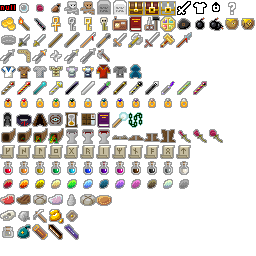
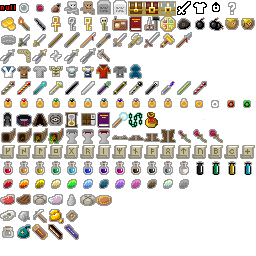
DSM-0080 updates to support new items

Changed region(s): [[0.75, 0.5625, 1.0, 0.6875], [0.75, 0.375, 1.0, 0.4375], [0.5625, 0.4375, 0.625, 0.5]]

diff --git a/src/main/java/com/shatteredpixel/pixeldungeonunleashed/sprites/ItemSpriteSheet.java b/src/main/java/com/shatteredpixel/pixeldungeonunleashed/sprites/ItemSpriteSheet.java
@@ -142,6 +142,10 @@ public class ItemSpriteSheet {
 	public static final int RING_QUARTZ		= ROW7+9;
 	public static final int RING_AGATE		= ROW7+10;
 	public static final int RING_DIAMOND	= ROW7+11;
+	public static final int RING_GOLD       = ROW7+12;
+	public static final int RING_CRYSTAL    = ROW7+13;
+	public static final int RING_WOOD       = ROW7+14;
+	public static final int RING_IVY        = ROW7+15;
 
 	//Row Eight: Artifacts with Static Images
 	public static final int ARTIFACT_CLOAK      = ROW8+0;
@@ -153,6 +157,7 @@ public class ItemSpriteSheet {
 	public static final int ARTIFACT_SPELLBOOK  = ROW8+6;
 	public static final int ARTIFACT_BEACON     = ROW8+7;
 	public static final int ARTIFACT_CHAINS     = ROW8+8;
+	public static final int ARTIFACT_DEVOUR     = ROW8+9;
 
 	//Row Nine: Artifacts with Dynamic Images
 	public static final int ARTIFACT_HORN1      = ROW9+0;
@@ -183,6 +188,10 @@ public class ItemSpriteSheet {
 	public static final int SCROLL_BERKANAN	= ROW10+9;
 	public static final int SCROLL_ODAL		= ROW10+10;
 	public static final int SCROLL_TIWAZ	= ROW10+11;
+	public static final int SCROLL_URR      = ROW10+12;
+	public static final int SCROLL_BEORC    = ROW10+13;
+	public static final int SCROLL_PEORO    = ROW10+14;
+	public static final int SCROLL_JEAR     = ROW10+15;
 
 	//Row Eleven: Potions
 	public static final int POTION_CRIMSON		= ROW11+0;
@@ -197,6 +206,10 @@ public class ItemSpriteSheet {
 	public static final int POTION_CHARCOAL		= ROW11+9;
 	public static final int POTION_SILVER		= ROW11+10;
 	public static final int POTION_IVORY		= ROW11+11;
+	public static final int POTION_BRISK		= ROW11+12;
+	public static final int POTION_MOLDY		= ROW11+13;
+	public static final int POTION_SPECKLED		= ROW11+14;
+	public static final int POTION_BUBBLY		= ROW11+15;
 
 	//Row Twelve: Seeds
 	public static final int SEED_ROTBERRY	= ROW12+0;

diff --git a/src/main/java/com/shatteredpixel/pixeldungeonunleashed/items/rings/Ring.java b/src/main/java/com/shatteredpixel/pixeldungeonunleashed/items/rings/Ring.java
@@ -61,7 +61,10 @@ public class Ring extends KindofMisc {
 		RingOfWealth.class,
 	};
 	private static final String[] gems =
-		{"diamond", "opal", "garnet", "ruby", "amethyst", "topaz", "onyx", "tourmaline", "emerald", "sapphire", "quartz", "agate"};
+		{
+			"diamond", "opal", "garnet", "ruby", "amethyst", "topaz", "onyx", "tourmaline",
+			"emerald", "sapphire", "quartz", "agate", "gold", "crystal", "wooden", "ivy"
+		};
 	private static final Integer[] images = {
 		ItemSpriteSheet.RING_DIAMOND,
 		ItemSpriteSheet.RING_OPAL,
@@ -74,8 +77,13 @@ public class Ring extends KindofMisc {
 		ItemSpriteSheet.RING_EMERALD,
 		ItemSpriteSheet.RING_SAPPHIRE,
 		ItemSpriteSheet.RING_QUARTZ,
-		ItemSpriteSheet.RING_AGATE};
-	
+		ItemSpriteSheet.RING_AGATE,
+		ItemSpriteSheet.RING_GOLD,
+		ItemSpriteSheet.RING_CRYSTAL,
+		ItemSpriteSheet.RING_WOOD,
+		ItemSpriteSheet.RING_IVY
+	};
+
 	private static ItemStatusHandler<Ring> handler;
 	
 	private String gem;

diff --git a/src/main/java/com/shatteredpixel/pixeldungeonunleashed/items/scrolls/Scroll.java b/src/main/java/com/shatteredpixel/pixeldungeonunleashed/items/scrolls/Scroll.java
@@ -61,7 +61,9 @@ public abstract class Scroll extends Item {
 		ScrollOfMirrorImage.class
 	};
 	private static final String[] runes =
-		{"KAUNAN", "SOWILO", "LAGUZ", "YNGVI", "GYFU", "RAIDO", "ISAZ", "MANNAZ", "NAUDIZ", "BERKANAN", "ODAL", "TIWAZ"};
+		{"KAUNAN", "SOWILO", "LAGUZ", "YNGVI", "GYFU", "RAIDO", "ISAZ", "MANNAZ",
+		"NAUDIZ", "BERKANAN", "ODAL", "TIWAZ", "URR", "BEORC", "PEORO", "JEAR"
+		};
 	private static final Integer[] images = {
 		ItemSpriteSheet.SCROLL_KAUNAN,
 		ItemSpriteSheet.SCROLL_SOWILO,
@@ -74,7 +76,12 @@ public abstract class Scroll extends Item {
 		ItemSpriteSheet.SCROLL_NAUDIZ,
 		ItemSpriteSheet.SCROLL_BERKANAN,
 		ItemSpriteSheet.SCROLL_ODAL,
-		ItemSpriteSheet.SCROLL_TIWAZ};
+		ItemSpriteSheet.SCROLL_TIWAZ,
+		ItemSpriteSheet.SCROLL_URR,
+		ItemSpriteSheet.SCROLL_BEORC,
+		ItemSpriteSheet.SCROLL_PEORO,
+		ItemSpriteSheet.SCROLL_JEAR
+	};
 	
 	private static ItemStatusHandler<Scroll> handler;
 	

diff --git a/src/main/java/com/shatteredpixel/pixeldungeonunleashed/items/potions/Potion.java b/src/main/java/com/shatteredpixel/pixeldungeonunleashed/items/potions/Potion.java
@@ -79,7 +79,9 @@ public class Potion extends Item {
 	};
 	private static final String[] colors = {
 		"turquoise", "crimson", "azure", "jade", "golden", "magenta",
-		"charcoal", "ivory", "amber", "bistre", "indigo", "silver"};
+		"charcoal", "ivory", "amber", "bistre", "indigo", "silver",
+		"brisk", "moldy", "speckled", "bubbly"
+	};
 	private static final Integer[] images = {
 		ItemSpriteSheet.POTION_TURQUOISE,
 		ItemSpriteSheet.POTION_CRIMSON,
@@ -92,7 +94,12 @@ public class Potion extends Item {
 		ItemSpriteSheet.POTION_AMBER,
 		ItemSpriteSheet.POTION_BISTRE,
 		ItemSpriteSheet.POTION_INDIGO,
-		ItemSpriteSheet.POTION_SILVER};
+		ItemSpriteSheet.POTION_SILVER,
+		ItemSpriteSheet.POTION_BRISK,
+		ItemSpriteSheet.POTION_MOLDY,
+		ItemSpriteSheet.POTION_SPECKLED,
+		ItemSpriteSheet.POTION_BUBBLY
+	};
 	
 	private static ItemStatusHandler<Potion> handler;
 	
